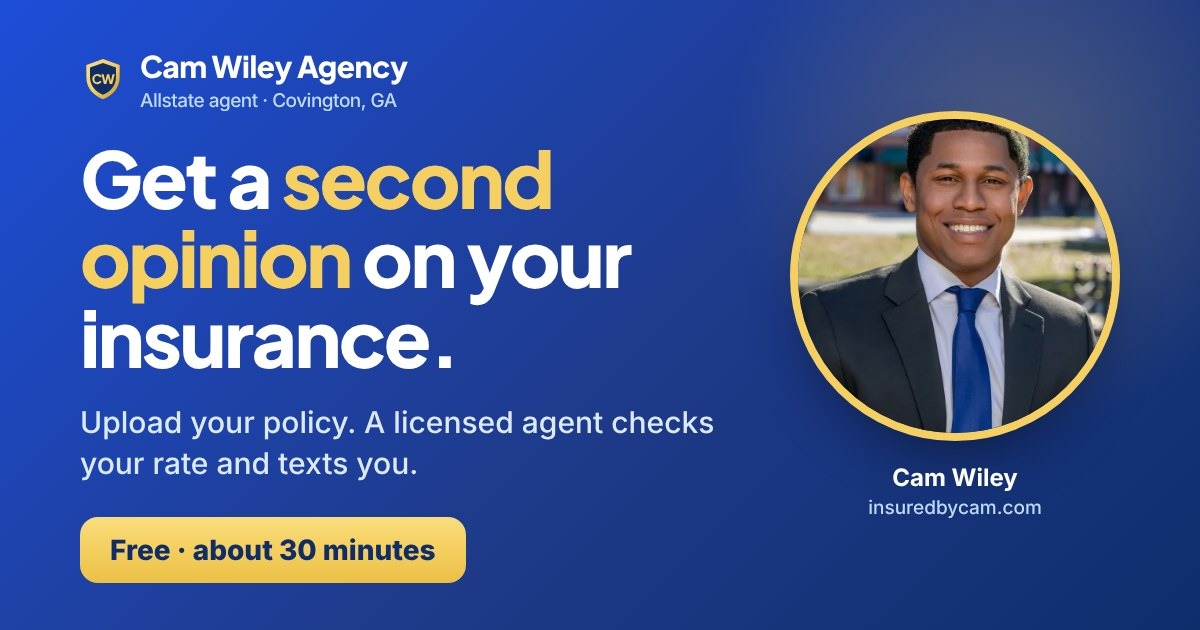
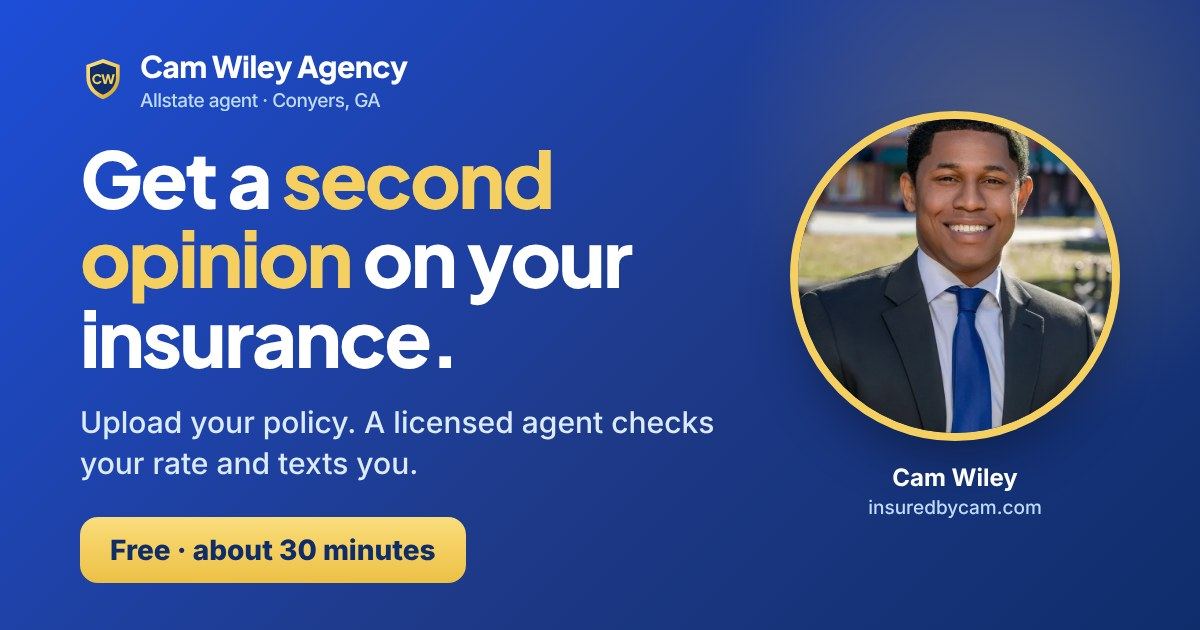
Brand line: Allstate agent · Conyers, GA
Claude-Session: https://claude.ai/code/session_01ALNZAc94dnod2U2WV7PUZi

diff --git a/src/components/BrandLogo.jsx b/src/components/BrandLogo.jsx
@@ -1,6 +1,6 @@
 // src/components/BrandLogo.jsx
 // The brand: a gold-edged navy shield with "CW", "Cam Wiley Agency", and a line
-// under it ("Allstate agent · Covington, GA", editable in the copy editor).
+// under it ("Allstate agent · Conyers, GA", editable in the copy editor).
 // `tone`: 'dark' on the blue header, 'light' on white. `compact` drops the line.
 import { useId } from 'react';
 import { T } from './SiteCopy';
@@ -33,7 +33,7 @@ export default function BrandLogo({ tone = 'dark', compact = false, size = 'md',
           style={{ fontFamily: "var(--font-display, 'Plus Jakarta Sans', Inter, sans-serif)" }}>Cam Wiley Agency</span>
         {!compact && (
           <span className={`mt-1 whitespace-nowrap text-[11.5px] font-medium ${dark ? 'text-blue-200' : 'text-slate-500'}`}>
-            <T k="brand.tagline">Allstate agent · Covington, GA</T>
+            <T k="brand.tagline">Allstate agent · Conyers, GA</T>
           </span>
         )}
       </span>
